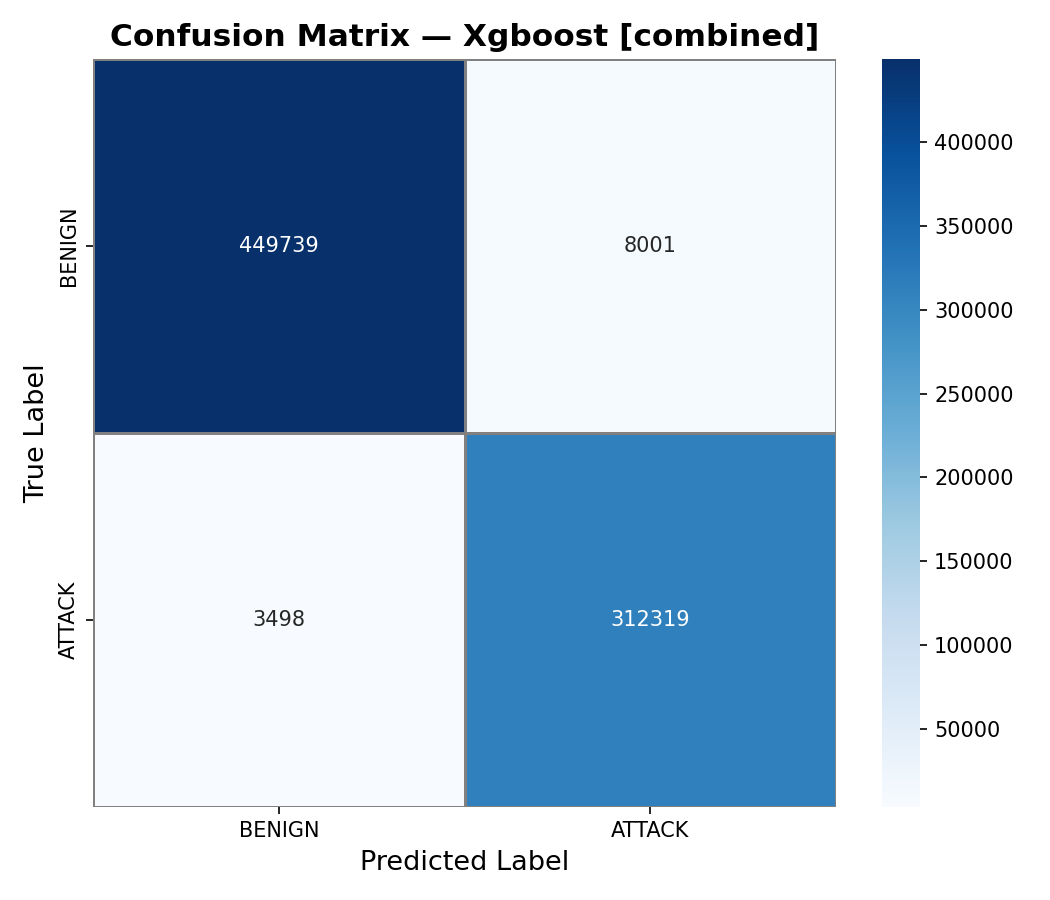
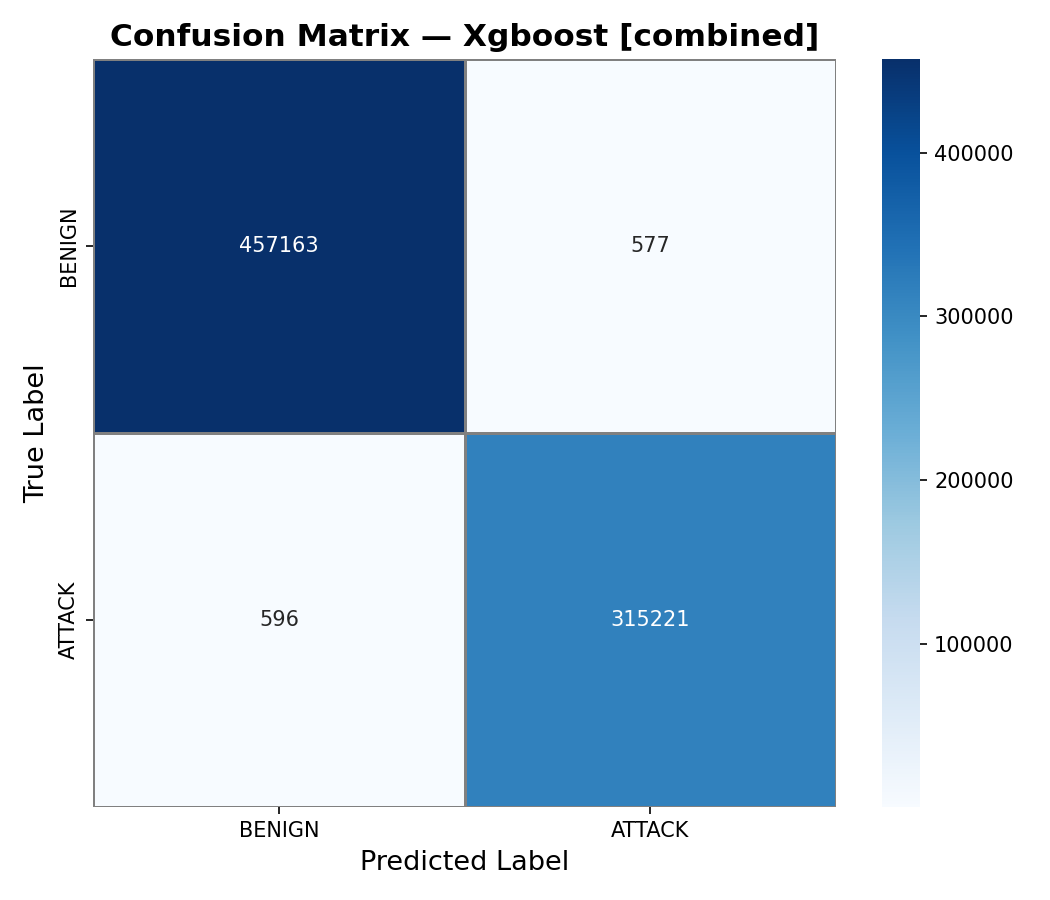
feat: 41-feature cross-dataset training — RF 99.86% / XGB 99.85%, AUC=1.0000
Fix: unified canonical column schema
  - FEATURE_COLUMNS updated to 41 lowercase_underscore names
  - _CICIDS_COL_MAP: CICIDS2017 mixed-case → canonical (auto-rename at load)
  - load_dataset() applies rename; no-op for combined.csv
  - select_features() normalization retained as fallback

Cross-dataset results (41 features, 3,867,785 rows, 4 sources):
  RandomForest: acc=99.86%  prec=99.84%  rec=99.82%  f1=99.83%  auc=1.0000 (100s)
  XGBoost     : acc=99.85%  prec=99.82%  rec=99.81%  f1=99.81%  auc=1.0000 (12s)

Previous (13 features): RF 98.62% / XGB 98.51%
Improvement with all 41 features: +1.24% RF / +1.34% XGB

21/21 tests passing

diff --git a/src/preprocessing.py b/src/preprocessing.py
@@ -17,31 +17,87 @@ import os
 logging.basicConfig(level=logging.INFO, format='%(asctime)s - %(levelname)s - %(message)s')
 logger = logging.getLogger(__name__)
 
-# Features used from CICIDS2017 (subset of most informative columns)
+# Canonical 41 feature names (lowercase, underscore-separated).
+# Used for both CICIDS2017 and the multi-dataset combined.csv.
 FEATURE_COLUMNS = [
-    'Flow Duration', 'Total Fwd Packets', 'Total Backward Packets',
-    'Total Length of Fwd Packets', 'Total Length of Bwd Packets',
-    'Fwd Packet Length Max', 'Fwd Packet Length Min', 'Fwd Packet Length Mean',
-    'Bwd Packet Length Max', 'Bwd Packet Length Min', 'Bwd Packet Length Mean',
-    'Flow Bytes/s', 'Flow Packets/s', 'Flow IAT Mean', 'Flow IAT Std',
-    'Fwd IAT Total', 'Bwd IAT Total', 'Fwd PSH Flags', 'Bwd PSH Flags',
-    'Fwd Header Length', 'Bwd Header Length', 'Fwd Packets/s', 'Bwd Packets/s',
-    'Min Packet Length', 'Max Packet Length', 'Packet Length Mean',
-    'Packet Length Std', 'Packet Length Variance', 'FIN Flag Count',
-    'SYN Flag Count', 'RST Flag Count', 'PSH Flag Count', 'ACK Flag Count',
-    'URG Flag Count', 'Average Packet Size', 'Avg Fwd Segment Size',
-    'Avg Bwd Segment Size', 'Init_Win_bytes_forward', 'Init_Win_bytes_backward',
-    'act_data_pkt_fwd', 'min_seg_size_forward',
+    'flow_duration', 'total_fwd_packets', 'total_bwd_packets',
+    'total_len_fwd_packets', 'total_len_bwd_packets',
+    'fwd_packet_len_max', 'fwd_packet_len_min', 'fwd_packet_len_mean',
+    'bwd_packet_len_max', 'bwd_packet_len_min', 'bwd_packet_len_mean',
+    'flow_bytes_s', 'flow_packets_s', 'flow_iat_mean', 'flow_iat_std',
+    'fwd_iat_total', 'bwd_iat_total', 'fwd_psh_flags', 'bwd_psh_flags',
+    'fwd_header_len', 'bwd_header_len', 'fwd_packets_s', 'bwd_packets_s',
+    'min_packet_len', 'max_packet_len', 'packet_len_mean',
+    'packet_len_std', 'packet_len_variance', 'fin_flag_cnt',
+    'syn_flag_cnt', 'rst_flag_cnt', 'psh_flag_cnt', 'ack_flag_cnt',
+    'urg_flag_cnt', 'avg_packet_size', 'avg_fwd_seg_size',
+    'avg_bwd_seg_size', 'init_win_bytes_fwd', 'init_win_bytes_bwd',
+    'act_data_pkt_fwd', 'min_seg_size_fwd',
 ]
 LABEL_COLUMN = 'Label'
 
+# CICIDS2017 original mixed-case column names → canonical names
+_CICIDS_COL_MAP = {
+    'Flow Duration':                'flow_duration',
+    'Total Fwd Packets':            'total_fwd_packets',
+    'Total Backward Packets':       'total_bwd_packets',
+    'Total Length of Fwd Packets':  'total_len_fwd_packets',
+    'Total Length of Bwd Packets':  'total_len_bwd_packets',
+    'Fwd Packet Length Max':        'fwd_packet_len_max',
+    'Fwd Packet Length Min':        'fwd_packet_len_min',
+    'Fwd Packet Length Mean':       'fwd_packet_len_mean',
+    'Bwd Packet Length Max':        'bwd_packet_len_max',
+    'Bwd Packet Length Min':        'bwd_packet_len_min',
+    'Bwd Packet Length Mean':       'bwd_packet_len_mean',
+    'Flow Bytes/s':                 'flow_bytes_s',
+    'Flow Packets/s':               'flow_packets_s',
+    'Flow IAT Mean':                'flow_iat_mean',
+    'Flow IAT Std':                 'flow_iat_std',
+    'Fwd IAT Total':                'fwd_iat_total',
+    'Bwd IAT Total':                'bwd_iat_total',
+    'Fwd PSH Flags':                'fwd_psh_flags',
+    'Bwd PSH Flags':                'bwd_psh_flags',
+    'Fwd Header Length':            'fwd_header_len',
+    'Bwd Header Length':            'bwd_header_len',
+    'Fwd Packets/s':                'fwd_packets_s',
+    'Bwd Packets/s':                'bwd_packets_s',
+    'Min Packet Length':            'min_packet_len',
+    'Max Packet Length':            'max_packet_len',
+    'Packet Length Mean':           'packet_len_mean',
+    'Packet Length Std':            'packet_len_std',
+    'Packet Length Variance':       'packet_len_variance',
+    'FIN Flag Count':               'fin_flag_cnt',
+    'SYN Flag Count':               'syn_flag_cnt',
+    'RST Flag Count':               'rst_flag_cnt',
+    'PSH Flag Count':               'psh_flag_cnt',
+    'ACK Flag Count':               'ack_flag_cnt',
+    'URG Flag Count':               'urg_flag_cnt',
+    'Average Packet Size':          'avg_packet_size',
+    'Avg Fwd Segment Size':         'avg_fwd_seg_size',
+    'Avg Bwd Segment Size':         'avg_bwd_seg_size',
+    'Init_Win_bytes_forward':       'init_win_bytes_fwd',
+    'Init_Win_bytes_backward':      'init_win_bytes_bwd',
+    'act_data_pkt_fwd':             'act_data_pkt_fwd',
+    'min_seg_size_forward':         'min_seg_size_fwd',
+    'Label':                        'Label',
+}
+
 
 def load_dataset(path: str) -> pd.DataFrame:
-    """Load the CICIDS2017 CSV dataset."""
+    """
+    Load a NIDS CSV dataset (CICIDS2017 or combined.csv).
+    Automatically renames CICIDS2017 mixed-case columns to the canonical
+    lowercase-underscore schema so both file formats share one pipeline.
+    """
     logger.info(f"Loading dataset from {path}")
     df = pd.read_csv(path, low_memory=False)
     # Strip whitespace from column names (CICIDS2017 has trailing spaces)
     df.columns = df.columns.str.strip()
+    # Rename CICIDS2017-style columns → canonical names (no-op for combined.csv)
+    rename_map = {k: v for k, v in _CICIDS_COL_MAP.items() if k in df.columns}
+    if rename_map:
+        df = df.rename(columns=rename_map)
+        logger.info(f"Normalized {len(rename_map)} CICIDS2017 column names to canonical form.")
     logger.info(f"Loaded {len(df):,} rows, {len(df.columns)} columns")
     return df
 

diff --git a/results/accuracy_report_combined.md b/results/accuracy_report_combined.md
@@ -1,12 +1,12 @@
 # Accuracy Report — AI Network Intrusion Detection System
-Generated: 2026-03-13 15:14:31
+Generated: 2026-03-13 15:20:25
 
 ## Summary
 
 | Model | Accuracy | Precision | Recall | F1 Score | ROC-AUC |
 |---|---|---|---|---|---|
-| random_forest | 98.62% | 97.55% | 99.12% | 98.33% | 0.9993 |
-| xgboost | 98.51% | 97.50% | 98.89% | 98.19% | 0.9991 |
+| random_forest | 99.86% | 99.84% | 99.82% | 99.83% | 1.0000 |
+| xgboost | 99.85% | 99.82% | 99.81% | 99.81% | 1.0000 |
 
 ## Notes
 
